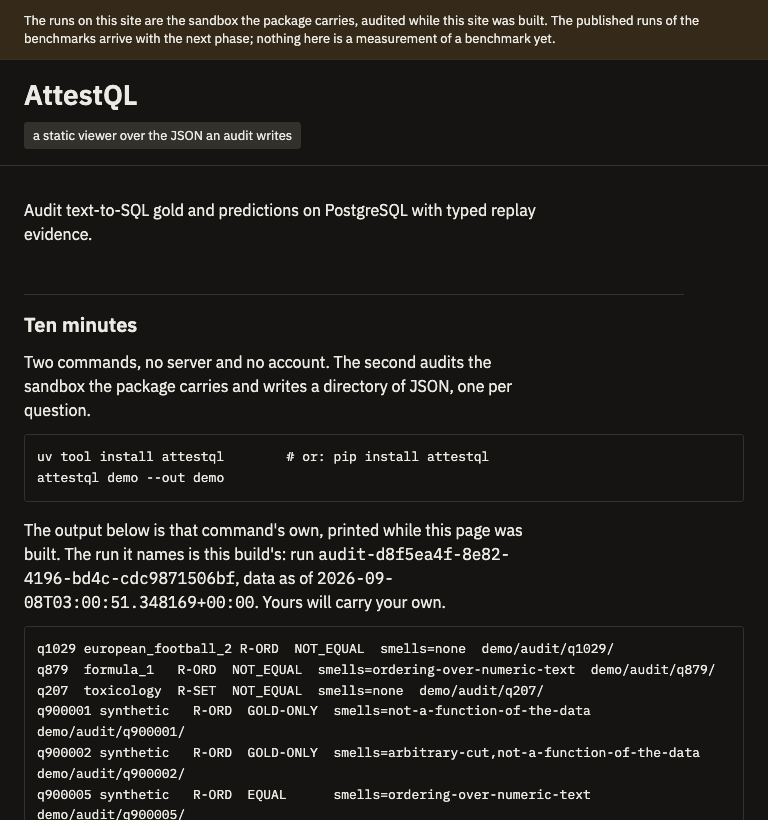
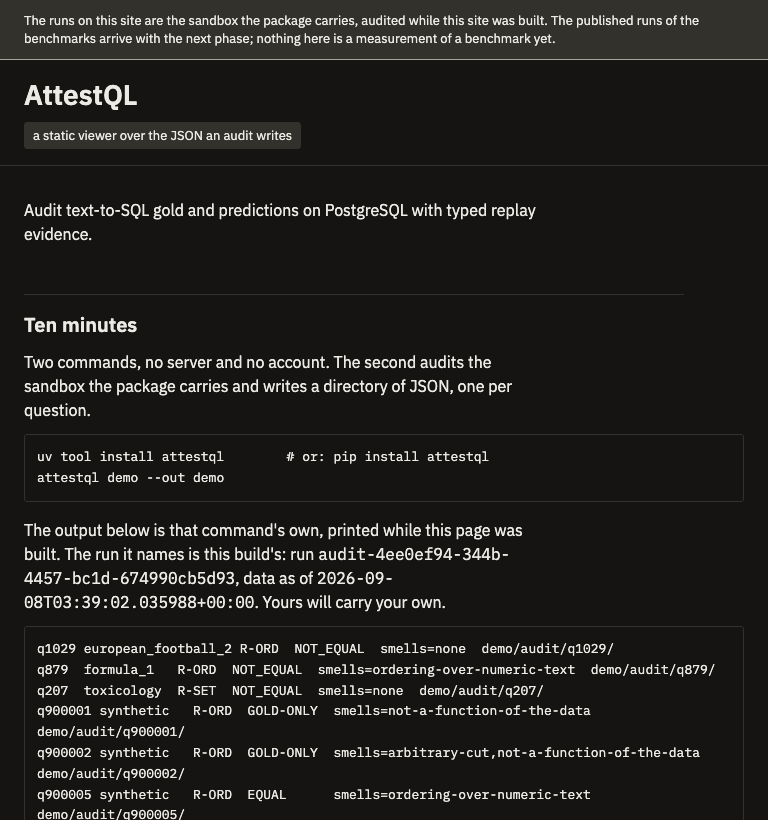
docs(plans): record the review, its findings and the second deployment
The report gains the fourteen findings acted on and the two recorded, the
reproduction of the path traversal and what the guard does instead, the
re-measured build and the preview the second deploy serves. The plan and the
phase file carry the state.

Changed region(s): [[0.0312, 0.7012, 0.3125, 0.7622], [0.5, 0.6707, 0.6562, 0.7012]]

diff --git a/plans/reports/cook-260908-0932-web-ui-phase-3-site.md b/plans/reports/cook-260908-0932-web-ui-phase-3-site.md
@@ -2,8 +2,8 @@
 
 Phase 3 of `plans/260907-1730-attestql-web-ui/plan.md`, on the branch `ivermin1123/web-ui` in the
 worktree `~/orca/workspaces/attestql/web-ui`, 2026-09-08 (Asia/Saigon), on Opus per the owner's
-model rule. Four commits on top of `ab4a99f`. The screenshots and the browser measurements are in
-`cook-260908-0932-web-ui-phase-3-site/` beside this file.
+model rule. Seven commits on top of `ab4a99f`. The screenshots and the browser measurements are
+in `cook-260908-0932-web-ui-phase-3-site/` beside this file.
 
 | Commit | What it is |
 | --- | --- |
@@ -11,6 +11,9 @@ model rule. Four commits on top of `ab4a99f`. The screenshots and the browser me
 | `dbf3f6a` | the pre-rendered filter pages in the package renderer |
 | `0b770ef` | `tools/site/build.py`, the four site templates, the two READMEs, the tests |
 | `daaf66f` | one paragraph in `docs/developer-environment.md` |
+| `1c8ddd2` | this report, its screenshots, the plan and phase status |
+| `e6381dd` | the banner keys to a published run, not to an empty directory |
+| `95b46d0` | the review's findings, the first of them a path traversal this cook introduced |
 
 ## Step 0: the three owner decisions of 2026-09-08
 
@@ -132,11 +135,11 @@ with no `pip install attestql` line is refused rather than a line being typed.
 
 ## What was measured
 
-**The build**, on the sandbox stand-in: **55 files, 524,181 bytes, 0.1 to 0.6 s.** Against the
-budget: 0.7 % of the 8,000 files, 1.3 % of the 40 MB, and the largest page is 31 KB against the
-2 MB bound. Plan criterion 4's two minutes is not close.
+**The build**, on the sandbox stand-in: **56 files, 525,006 bytes, 0.1 s.** Against the budget:
+0.7 % of the 8,000 files, 1.3 % of the 40 MB, and the largest page is 31 KB against the 2 MB
+bound. Plan criterion 4's two minutes is not close.
 
-**Determinism.** Two builds into the same output directory: 25 of 55 files byte identical; 14
+**Determinism.** Two builds into the same output directory: 25 of the files byte identical; 14
 differ only in the demo run's id and its timestamps; 16 differ also in a hash those two feed
 (`record_hash` is taken over a document that holds the run id and the executed-at) or in the
 audit's own `elapsed_seconds`. **Nothing else differs**, measured by masking the run id and the
@@ -163,18 +166,22 @@ this file with `site-measurements.json`, which holds every number above.
 
 **The preview.** Deployed from `$TMPDIR`, outside the repository, with
 `npx --yes wrangler@4.129.0 pages deploy <repo>/build/site --project-name attestql-ui --branch
-web-ui`, after confirming the project with `pages project list`. 55 files uploaded in 2.16 s.
+web-ui`, after confirming the project with `pages project list`. Deployed twice: once at `0b770ef`
+and again at `95b46d0`, which is what the preview serves now.
 
-- <https://attestql-ui.pages.dev> and the deployment's own address
-  <https://843f9699.attestql-ui.pages.dev> both answer 200. The first request answered 522 and the
-  second, fifteen seconds later, 200; a fresh Pages deployment takes a moment to be routable.
+- <https://attestql-ui.pages.dev> and the second deployment's own address
+  <https://f6872917.attestql-ui.pages.dev> both answer 200. The first request after a deploy
+  answered 522 and the next, fifteen seconds later, 200; a fresh Pages deployment takes a moment
+  to be routable.
 - The landing serves the one sentence (`grep` for the `pyproject.toml` description: found).
-- `/runs/sandbox/demo/q879/index.html`, `/runs/sandbox/demo/not-equal/index.html`, `/method/`,
-  `/runs/sandbox/demo/`, `/runs/`, `/runs/sandbox/` each answer 200 through one 308 that Pages adds
+- `/runs/sandbox/demo/q879/index.html`, `/runs/sandbox/demo/not-equal/index.html`,
+  `/runs/sandbox/demo/by-probe/arbitrary-cut/index.html`, `/method/`, `/runs/sandbox/demo/`,
+  `/runs/`, `/runs/sandbox/` each answer 200 through one 308 that Pages adds
   to drop `index.html` from the address. `/runs/sandbox/demo/q879/counterexample.json` answers 200
   as `application/json`, 5,488 bytes. `static/report.css` and the woff2 answer 200.
 - The question page carries "recomputed from this JSON: match" four times, the filter page carries
-  its restriction line, the method page names the probes, and the landing carries the banner.
+  its restriction line, the method page names the probes and says the seven preconditions are
+  PostgreSQL's, and the landing carries the banner.
 
 **attestql.com is unchanged.** `curl https://attestql.com/` returns 200, 5,284 bytes, and the
[1 lines of base64/hex data omitted]
@@ -191,24 +198,82 @@ local; nothing in this deployment is local, and the `pages.dev` address is Cloud
 
 `just check` green after each of the four commits. At the last: ruff, `pyright` strict over `src`,
 `tests` and `tools`, the three repository checks, markdownlint and cspell over 44 documents,
-**1,045 passed and 33 skipped**, the Docker PostgreSQL sandbox's 33 and the SQLite sandbox's 78.
-Phase 2 ended at 1,018; the 27 new are the filter pages, the site build and the copy rule extended
-to the site's templates.
+**1,053 passed and 33 skipped**, the Docker PostgreSQL sandbox's 33 and the SQLite sandbox's 86.
+Phase 2 ended at 1,018; the 35 new are the filter pages, the site build, the copy rule extended to
+the site's templates and to `build.py`, and the review's findings.
 
 New tests:
 
-- `tests/test_site_builds_from_the_sandbox.py`, ten tests: the site is built and every page is
+- `tests/test_site_builds_from_the_sandbox.py`, sixteen tests: the site is built and every page is
   where it should be; the landing states nothing it did not read out of `pyproject.toml`,
   `README.md` or `site/index.html`; it shows the rows of the question it names, read back out of
   that run's own `counterexample.json`; it shows no number and no bar without the aggregate and
   three numbers with their sources with it; the method page holds every probe, every meaning and
   all seven preconditions; the banner is on every page without data and on none with it; an `--out`
-  inside `site/` is refused; and each of the three budgets fails the build when crossed.
-- `tests/test_report_renders_an_audit_directory.py` gained three: the filter pages hold the rows
+  inside `site/` is refused; each of the three budgets refuses the build when crossed; a directory
+  the build did not write is refused untouched; a published run at the sandbox's own address is
+  refused; a run the renderer refuses is this build refusing, naming the run; the bar is one whole
+  cut into two parts and a part larger than its whole is refused; and the method page says whose
+  the seven preconditions are.
+- `tests/test_report_renders_an_audit_directory.py` gained four: the filter pages hold the rows
   the run page and the summary state, an empty filter is not written and is not linked, and a rerun
-  clears a filter the run before it wrote. Its byte-identical test now covers the filter pages too.
-- `tests/test_report_copy_never_judges.py` reads `tools/site/templates/*.html` under the same rule,
-  and refuses to pass if that directory is empty.
+  clears a filter the run before it wrote, and a class or a probe name that is not a name writes
+  no directory and nothing outside `--out`. Its byte-identical test now covers the filter pages too.
+- `tests/test_report_copy_never_judges.py` reads `tools/site/templates/*.html` and
+  `tools/site/build.py` under the same rule, with the principle sentence taken out by name before
+  the search the way the design spec allows it, and refuses to pass if the site's template
+  directory is empty.
+
+## The review, and what it found
+
+An in-worker `code-reviewer` read `ab4a99f..daaf66f` and returned fifteen findings. Fourteen were
+acted on in `95b46d0`; the rest are recorded below. The first is the one that matters.
+
+**A path traversal, introduced by this cook.** A counterexample's `mechanism.class` and a probe's
+`name` are text out of documents this command is documented to read from another machine, and the
+filter pages of `dbf3f6a` were the first code to put either into a path (`out / slug`). Reproduced
+before it was repaired: a `class` of `../../../../../../tmp/attestql-traversal-proof` on the
+packaged sandbox made `attestql report` write `index.html` into `/private/tmp/tmp/` , outside the
+`--out` the caller chose. Jinja's autoescaping does not touch this, because a path is not markup.
+
+The repair is `FILTER_SEGMENT`: a name becomes a directory only if it is a single segment starting
+with an alphanumeric, which drops `.`, `..`, anything empty and anything holding a separator. A
+name outside it gets no filter page and is still a chip on the run page and on the question page,
+so nothing a document states is lost; what is lost is a pre-rendered view of rows a reader can
+already see. Skipped rather than refused, so that a directory which rendered before still renders.
+Re-run against the repro: nothing outside `--out`, no directory for the hostile name, the name
+still on both pages and in no `href`. The test is the repro.
+
+The other thirteen acted on, briefly:
+
+| Finding | What was done |
+| --- | --- |
+| an empty probe name made a slug of `by-probe/` whose `root` climbed one level too far | the same guard drops it |
+| `ReportRefused` was uncaught in the site build, so one malformed published file would be a traceback | the build turns it into its own refusal, naming the run |
+| the proportion bar summed three quantities, two of them not disjoint and one from another benchmark | it draws one whole cut into two disjoint parts, and refuses a part larger than its whole |
+| the method page called the seven preconditions universal, and the landing's own demo is SQLite | it says they are PostgreSQL's, with what the SQLite backend states of itself beside them |
+| `_clear()` emptied whatever `--out` named | the marker discipline `attestql report` has, for the reason it has it |
+| a published benchmark named `sandbox` with a run `demo` would silently overwrite the stand-in | refused, naming the address |
+| `_string()` coerced a wrong-typed field instead of refusing, unlike its two siblings | it refuses |
+| the copy rule did not read `build.py`, where the banner and the number labels are | it does, with the principle sentence allowed by name |
+| `Report.line` read as though the filters were inside the page count | reworded, since the two are disjoint by design |
+| `.banner` took `--gold-tint`, which the spec scopes to rows carrying a label and a glyph | it takes `--rule`; `--ink` on it is 11.98:1 and 10.80:1 |
+| `import build` could resolve to the git-ignored `build/` directory as a namespace package | the test asserts the module it imported is the file it means |
+| `.wrangler/` was untracked and not ignored | ignored, with the reason |
+| the review's own credential warnings | false positives: every one is `rt_` inside an ordinary identifier such as `report_` or `start_`. Nothing to rotate |
+
+Two findings were recorded and not acted on:
+
+- **The static tree is copied into every run's directory as well as once at the site root.** That
+  is the renderer's own contract: a report is a directory a reader can move, serve or open with
+  nothing fetched from a network, and a run whose stylesheet lived a level up would not be one.
+  Eight files and about 120 KB per run; at phase 4's twenty-one runs that is 168 files and 2.5 MB
+  against budgets of 8,000 and 40 MB. It is measured by phase 4's dry run, which is where the
+  selection is decided.
+- **`question_page()`'s GOLD-ONLY branch is not covered through the public accessor**, and the
+  `banner` threading is nine call sites that a future one could omit. Both are maintainability,
+  not defects; the second is bounded by `StrictUndefined`, which raises on a template reading a
+  name the model does not have.
 
 ## Decisions taken, and the ones a reviewer should look at
 

diff --git a/plans/260907-1730-attestql-web-ui/phase-3-site-build-and-deploy.md b/plans/260907-1730-attestql-web-ui/phase-3-site-build-and-deploy.md
@@ -1,12 +1,13 @@
 # Phase 3: the site build, landing and method pages, a preview deployment
 
-Status: DONE 2026-09-08. Four commits on `ivermin1123/web-ui` (`6e0a896`, `dbf3f6a`, `0b770ef`,
-`daaf66f`), `just check` green at each. The build makes 55 files and 524,181 bytes in under a
-second, the preview serves it at <https://attestql-ui.pages.dev>, and attestql.com is byte
-identical to `site/index.html`. Report, with the browser measurements and the screenshots:
-`plans/reports/cook-260908-0932-web-ui-phase-3-site.md`. What is left is phase 4's data, the
-keyboard stop on a wide table, and the owner's switch; steps 3 and 4 below are done from one
-network, which the report states.
+Status: DONE 2026-09-08. Seven commits on `ivermin1123/web-ui` (`6e0a896` to `95b46d0`), with
+`just check` green at each. The build makes 56 files and 525,006 bytes in a tenth of a second, the
+preview serves it at <https://attestql-ui.pages.dev>, and attestql.com is byte identical to
+`site/index.html`. An in-worker review found fifteen things, the first a path traversal the filter
+pages introduced, reproduced and repaired in `95b46d0`. Report, with the browser measurements and
+the screenshots: `plans/reports/cook-260908-0932-web-ui-phase-3-site.md`. What is left is phase 4's
+data, the keyboard stop on a wide table, and the owner's switch; steps 3 and 4 below are done from
+one network, which the report states.
 
 ## Context
 

diff --git a/tools/site/README.md b/tools/site/README.md
@@ -25,8 +25,8 @@ attestql.com serves today and belongs to another session, and an `--out` that is
 holds no `.attestql-site` marker is refused untouched, because a build empties only a directory
 of its own.
 
-The build fails, naming what pushed it over, at more than 8,000 files, more than 40 MB in total,
-or any single page over 2 MB. Those are under the Cloudflare Pages Free plan's own limits (20,000
+The build is refused, with what pushed it over named, at more than 8,000 files, more than 40 MB
+in total, or any single page over 2 MB. Those are under the Cloudflare Pages Free plan's own limits (20,000
 files a site, 25 MiB a file), so a run can be added to a passing build without a re-plan. The
 answer to a build over budget is a narrower selection of questions and never a larger budget.
 
@@ -48,8 +48,8 @@ npx --yes wrangler@4.129.0 pages deploy <repo>/build/site \
 ```
 
 Preview URL, deployed 2026-09-08: <https://attestql-ui.pages.dev>. Each deploy also prints an
-address of its own for that one deployment; the first was
-<https://843f9699.attestql-ui.pages.dev>.
+address of its own for that one deployment; the current one is
+<https://f6872917.attestql-ui.pages.dev>.
 
 ## What this does not touch
 

diff --git a/plans/260907-1730-attestql-web-ui/plan.md b/plans/260907-1730-attestql-web-ui/plan.md
@@ -76,7 +76,7 @@ gets the same pages by running `attestql report audit/`.
 | --- | --- | --- | --- |
 | 1 | `phase-1-report-renderer.md` | nothing | DONE: `attestql report`, templates, tests |
 | 2 | `phase-2-design-and-verification.md` | 1 | DONE: tokens applied, states designed, figures, rendered and measured at three widths |
-| 3 | `phase-3-site-build-and-deploy.md` | 2 | DONE 2026-09-08: `tools/site/` build, landing and method pages, the index filters, preview at <https://attestql-ui.pages.dev> |
+| 3 | `phase-3-site-build-and-deploy.md` | 2 | DONE 2026-09-08: `tools/site/` build, landing and method pages, the index filters, preview at <https://attestql-ui.pages.dev>, reviewed |
 | 4 | `phase-4-publish-runs.md` | 1 (data), 3 (deploy) | per-question JSON for the five runs, size budget met, site live with real rows |
 | 5 | `phase-5-in-browser-viewer.md` | 1, 3 | drop zone for private audits, one renderer via Pyodide; about 6.3 MB compressed, loaded on demand; hash verification lives in phase 1 |
 
